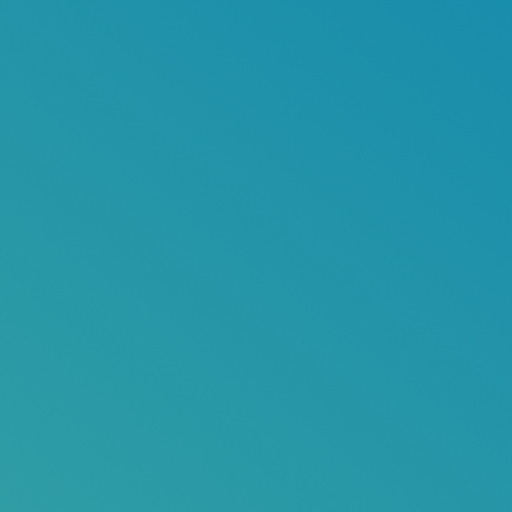
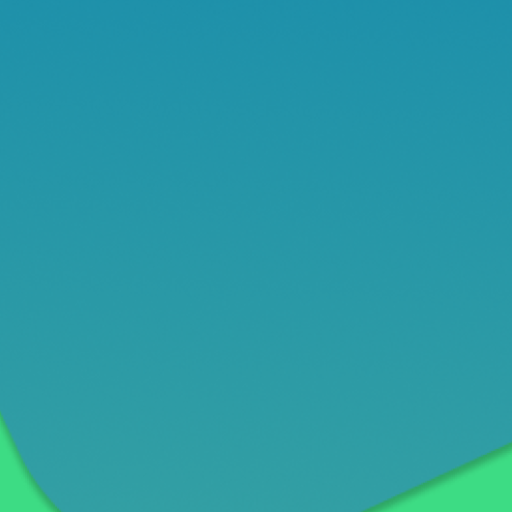
the first login frame design ui with some change to be responsive

Changed region(s): [[0.7188, 0.8438, 1.0, 1.0], [0.0, 0.8125, 0.125, 1.0]]

diff --git a/app/src/main/java/com/hadjmohamed/hirfati/MainActivity.java b/app/src/main/java/com/hadjmohamed/hirfati/MainActivity.java
@@ -2,6 +2,7 @@ package com.hadjmohamed.hirfati;
 
 import androidx.appcompat.app.AppCompatActivity;
 
+import android.content.Intent;
 import android.os.Bundle;
 
 public class MainActivity extends AppCompatActivity {
@@ -10,5 +11,11 @@ public class MainActivity extends AppCompatActivity {
     protected void onCreate(Bundle savedInstanceState) {
         super.onCreate(savedInstanceState);
         setContentView(R.layout.activity_main);
+    }
+
+    @Override
+    protected void onStart() {
+        super.onStart();
+        startActivity(new Intent(MainActivity.this, LogIn.class));
     }
 }
